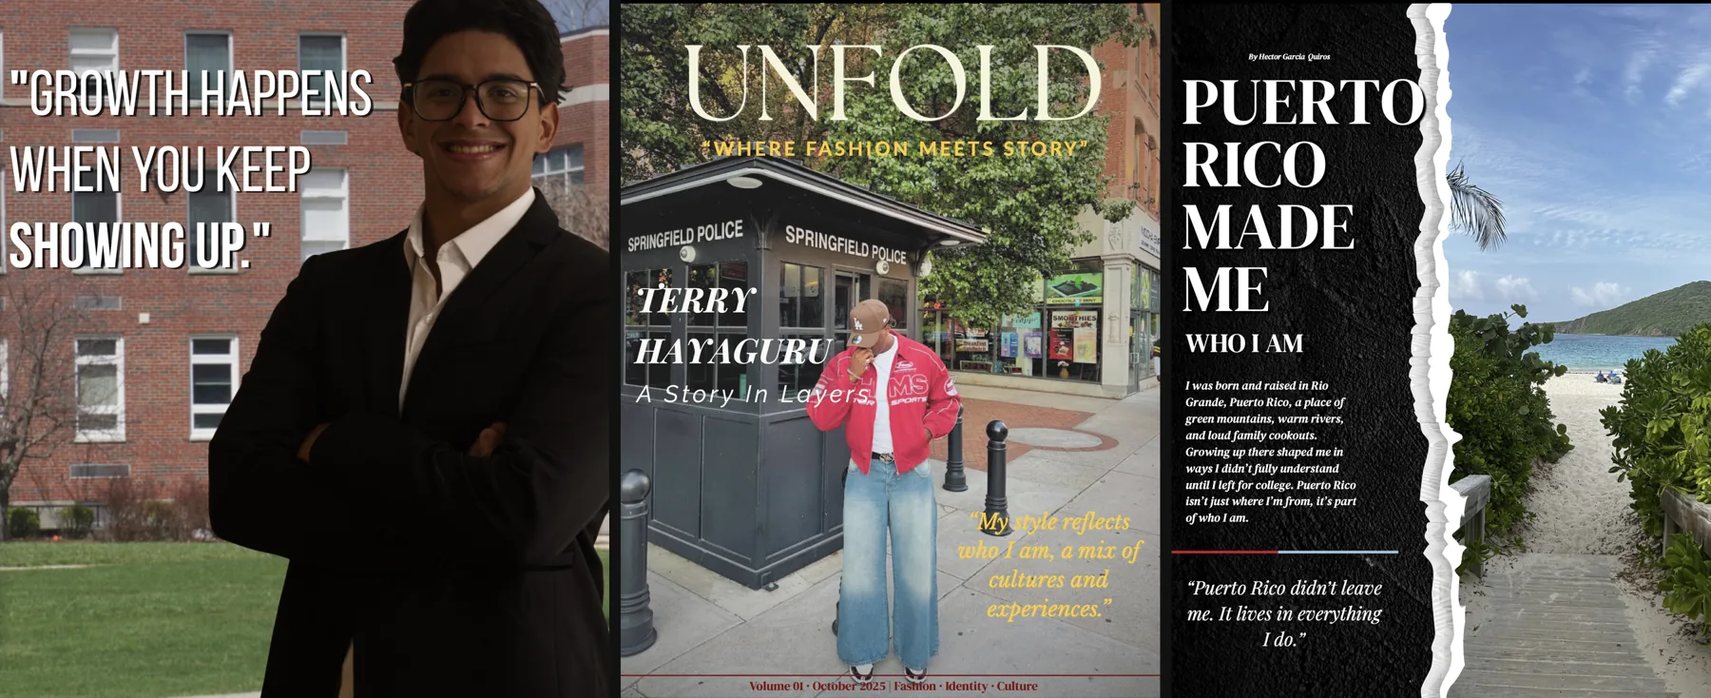
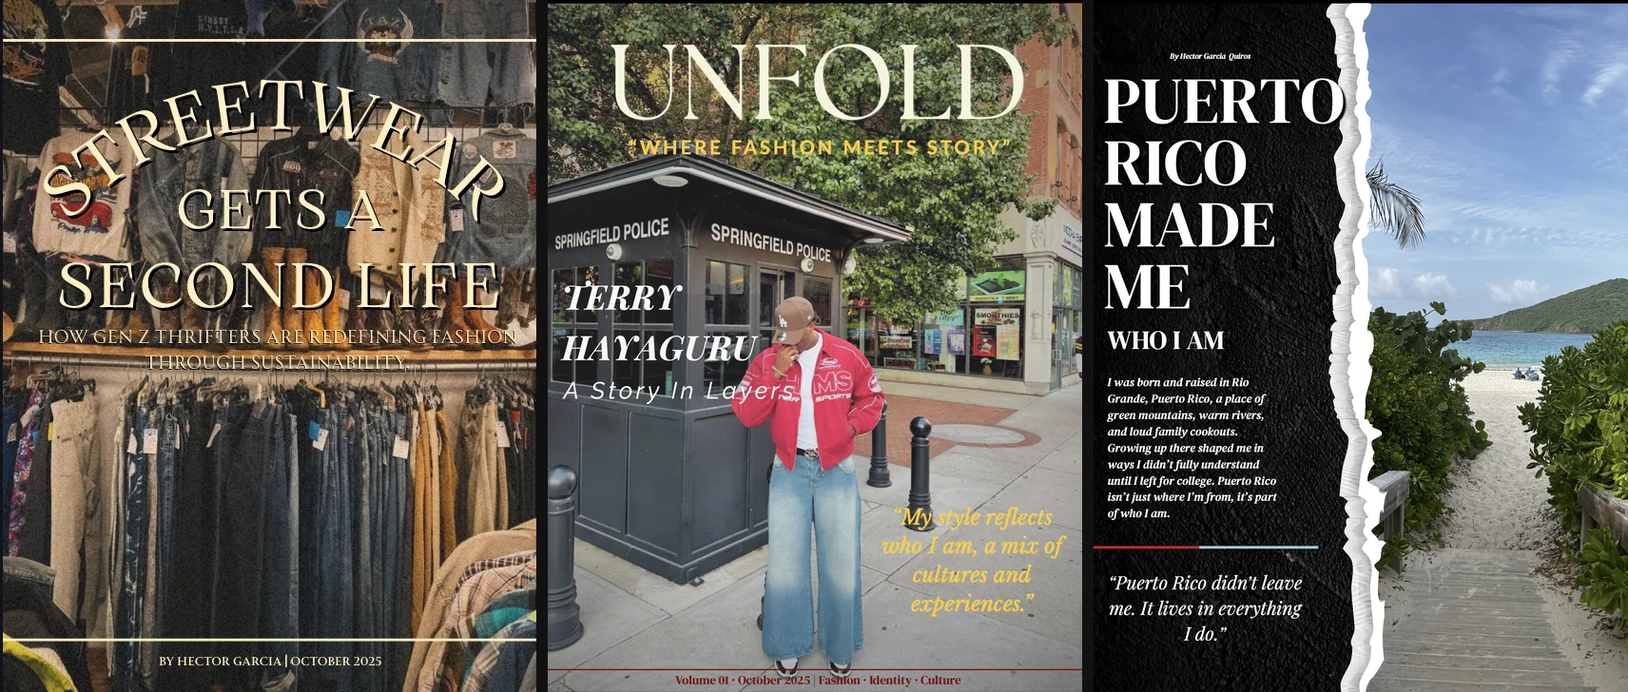
Swap the Senior Issue spread for the Streetwear Gets a Second Life cover

diff --git a/es/index.html b/es/index.html
@@ -25,7 +25,7 @@
 <link rel="apple-touch-icon" href="/apple-touch-icon.png">
 <link rel="preload" href="/fonts/anton-400.woff2" as="font" type="font/woff2" crossorigin>
 <link rel="preload" href="/fonts/instrument-sans-var.woff2" as="font" type="font/woff2" crossorigin>
-<link rel="stylesheet" href="/css/styles.css?v=4">
+<link rel="stylesheet" href="/css/styles.css?v=5">
 <script>
 /* Hide animated elements before first paint only when motion will run. */
 (function(){var r=document.documentElement;if(!matchMedia('(prefers-reduced-motion: reduce)').matches){r.classList.add('motion');setTimeout(function(){r.classList.add('motion-ready')},3000);}})();
@@ -94,11 +94,11 @@
   <span class="svc__num">03</span>
   <span class="svc__name">MARCA</span>
   <span class="svc__meta"><span class="svc__desc">Logotipos, colores, tipografía y las reglas que los mantienen unidos.</span><span class="svc__price">Desde $500 <svg class="arrow" width="16" height="16" viewBox="0 0 16 16" fill="none" aria-hidden="true"><path d="M2 8h11M9 4l4 4-4 4" stroke="currentColor" stroke-width="1.6"/></svg></span></span>
-  <span class="svc__thumb svc__thumb--strip" aria-hidden="true"><img src="/img/aic-covers-strip.webp" alt="" loading="lazy" decoding="async" width="1800" height="734"></span>
+  <span class="svc__thumb svc__thumb--strip" aria-hidden="true"><img src="/img/aic-covers-strip.webp" alt="" loading="lazy" decoding="async" width="1712" height="728"></span>
 </a></li></ul>
   </div>
   <div class="svc-preview" aria-hidden="true">
-  <img src="/img/sharplineconsulting-hero.webp" alt="" width="1200" height="750" loading="lazy"><img src="/img/cc-thumb-1.webp" alt="" width="960" height="540" loading="lazy"><img class="is-strip" src="/img/aic-covers-strip.webp" alt="" width="1800" height="734" loading="lazy">
+  <img src="/img/sharplineconsulting-hero.webp" alt="" width="1200" height="750" loading="lazy"><img src="/img/cc-thumb-1.webp" alt="" width="960" height="540" loading="lazy"><img class="is-strip" src="/img/aic-covers-strip.webp" alt="" width="1712" height="728" loading="lazy">
 </div>
 </section>
 <section class="section work on-ink" aria-labelledby="work-title" id="work">
@@ -146,13 +146,13 @@
   </div>
 </article><article class="case">
   <div class="case__media case__media--aic" data-unmask data-cursor="Leer">
-  <div class="aic-combo"><div class="fan fan--covers" role="img" aria-label="Portadas: Unfold, Puerto Rico Made Me y A Chapter That Changed Me"><div class="fan__item" style="--x:-58%;--y:8%;--r:-7deg;--hx:-72%;--hy:4%;--hr:-10deg;z-index:1"><img src="/img/senior-issue.webp" width="1000" height="647" alt="" loading="lazy" decoding="async"></div><div class="fan__item" style="--x:0%;--y:0%;--r:0deg;--hx:0%;--hy:-5%;--hr:0deg;z-index:2"><img src="/img/unfold.webp" width="1000" height="1294" alt="" loading="lazy" decoding="async"></div><div class="fan__item" style="--x:50%;--y:6%;--r:7deg;--hx:62%;--hy:2%;--hr:10deg;z-index:1"><img src="/img/puerto-rico.webp" width="1000" height="1294" alt="" loading="lazy" decoding="async"></div></div><div class="aic-combo__video"><div class="video-frame"><video data-autoplay muted loop playsinline preload="none" poster="/img/aic-poster.jpg" width="480" height="622" aria-label="Video: We Are AIC Project"><source src="/media/aic-loop.mp4" type="video/mp4"></video></div></div></div>
+  <div class="aic-combo"><div class="fan fan--covers" role="img" aria-label="Portadas: Streetwear Gets a Second Life, Unfold y Puerto Rico Made Me"><div class="fan__item" style="--x:-58%;--y:6%;--r:-7deg;--hx:-72%;--hy:2%;--hr:-10deg;z-index:1"><img src="/img/streetwear.webp" width="564" height="728" alt="" loading="lazy" decoding="async"></div><div class="fan__item" style="--x:0%;--y:0%;--r:0deg;--hx:0%;--hy:-5%;--hr:0deg;z-index:2"><img src="/img/unfold.webp" width="1000" height="1294" alt="" loading="lazy" decoding="async"></div><div class="fan__item" style="--x:50%;--y:6%;--r:7deg;--hx:62%;--hy:2%;--hr:10deg;z-index:1"><img src="/img/puerto-rico.webp" width="1000" height="1294" alt="" loading="lazy" decoding="async"></div></div><div class="aic-combo__video"><div class="video-frame"><video data-autoplay muted loop playsinline preload="none" poster="/img/aic-poster.jpg" width="480" height="622" aria-label="Video: We Are AIC Project"><source src="/media/aic-loop.mp4" type="video/mp4"></video></div></div></div>
   <button class="video-toggle" type="button" data-play="Reproducir" data-pause="Pausar"><span>Reproducir</span></button>
 </div>
   <div class="case__body">
     <div class="case__top"><span class="case__num">04</span><h3 class="case__title">HISTORIAS Y REPORTAJES PARA AIC</h3></div>
     <p class="case__type">American International College · Redacción, diseño y video</p>
-    <p class="case__desc">Historias publicadas en AIC Impact, reportajes de revista que escribí y diseñé (Unfold, Puerto Rico Made Me, A Chapter That Changed Me) y el video We Are AIC Project.</p>
+    <p class="case__desc">Historias publicadas en AIC Impact, reportajes de revista que escribí y diseñé (Streetwear Gets a Second Life, Unfold, Puerto Rico Made Me) y el video We Are AIC Project.</p>
     <div class="case__links"><a class="link-arrow" href="https://www.linkedin.com/pulse/aic-students-take-lead-boston-sports-marketing-summit-gjsre/" target="_blank" rel="noopener" title="AIC Students Take the Lead at Boston Sports Marketing Summit">Sports Marketing Summit<span class="visually-hidden">: AIC Students Take the Lead at Boston Sports Marketing Summit</span><svg class="arrow" width="14" height="14" viewBox="0 0 14 14" fill="none" aria-hidden="true"><path d="M4 10L10 4M5 4h5v5" stroke="currentColor" stroke-width="1.6"/></svg></a><a class="link-arrow" href="https://www.linkedin.com/pulse/owning-my-story-from-uncertainty-confidence-5pyke/" target="_blank" rel="noopener" title="Owning My Story: From Uncertainty to Confidence at AIC">Owning My Story<span class="visually-hidden">: Owning My Story: From Uncertainty to Confidence at AIC</span><svg class="arrow" width="14" height="14" viewBox="0 0 14 14" fill="none" aria-hidden="true"><path d="M4 10L10 4M5 4h5v5" stroke="currentColor" stroke-width="1.6"/></svg></a><a class="link-arrow" href="https://www.linkedin.com/pulse/american-international-college-recognized-2026-us-news-gc0se/" target="_blank" rel="noopener" title="American International College Recognized in 2026 U.S. News &amp; World Report Best Colleges Rankings for Social Mobility">Ranking de U.S. News<span class="visually-hidden">: American International College Recognized in 2026 U.S. News &amp; World Report Best Colleges Rankings for Social Mobility</span><svg class="arrow" width="14" height="14" viewBox="0 0 14 14" fill="none" aria-hidden="true"><path d="M4 10L10 4M5 4h5v5" stroke="currentColor" stroke-width="1.6"/></svg></a></div>
   </div>
 </article>
@@ -228,6 +228,6 @@
 <script src="/js/gsap.min.js" defer></script>
 <script src="/js/ScrollTrigger.min.js" defer></script>
 <script src="/js/lenis.min.js" defer></script>
-<script src="/js/main.js?v=4" defer></script>
+<script src="/js/main.js?v=5" defer></script>
 </body>
 </html>

diff --git a/index.html b/index.html
@@ -25,7 +25,7 @@
 <link rel="apple-touch-icon" href="/apple-touch-icon.png">
 <link rel="preload" href="/fonts/anton-400.woff2" as="font" type="font/woff2" crossorigin>
 <link rel="preload" href="/fonts/instrument-sans-var.woff2" as="font" type="font/woff2" crossorigin>
-<link rel="stylesheet" href="/css/styles.css?v=4">
+<link rel="stylesheet" href="/css/styles.css?v=5">
 <script>
 /* Hide animated elements before first paint only when motion will run. */
 (function(){var r=document.documentElement;if(!matchMedia('(prefers-reduced-motion: reduce)').matches){r.classList.add('motion');setTimeout(function(){r.classList.add('motion-ready')},3000);}})();
@@ -94,11 +94,11 @@
   <span class="svc__num">03</span>
   <span class="svc__name">BRAND</span>
   <span class="svc__meta"><span class="svc__desc">Wordmarks, colors, type and the rules that hold them together.</span><span class="svc__price">From $500 <svg class="arrow" width="16" height="16" viewBox="0 0 16 16" fill="none" aria-hidden="true"><path d="M2 8h11M9 4l4 4-4 4" stroke="currentColor" stroke-width="1.6"/></svg></span></span>
-  <span class="svc__thumb svc__thumb--strip" aria-hidden="true"><img src="/img/aic-covers-strip.webp" alt="" loading="lazy" decoding="async" width="1800" height="734"></span>
+  <span class="svc__thumb svc__thumb--strip" aria-hidden="true"><img src="/img/aic-covers-strip.webp" alt="" loading="lazy" decoding="async" width="1712" height="728"></span>
 </a></li></ul>
   </div>
   <div class="svc-preview" aria-hidden="true">
-  <img src="/img/sharplineconsulting-hero.webp" alt="" width="1200" height="750" loading="lazy"><img src="/img/cc-thumb-1.webp" alt="" width="960" height="540" loading="lazy"><img class="is-strip" src="/img/aic-covers-strip.webp" alt="" width="1800" height="734" loading="lazy">
+  <img src="/img/sharplineconsulting-hero.webp" alt="" width="1200" height="750" loading="lazy"><img src="/img/cc-thumb-1.webp" alt="" width="960" height="540" loading="lazy"><img class="is-strip" src="/img/aic-covers-strip.webp" alt="" width="1712" height="728" loading="lazy">
 </div>
 </section>
 <section class="section work on-ink" aria-labelledby="work-title" id="work">
@@ -146,13 +146,13 @@
   </div>
 </article><article class="case">
   <div class="case__media case__media--aic" data-unmask data-cursor="Read">
-  <div class="aic-combo"><div class="fan fan--covers" role="img" aria-label="Magazine covers: Unfold, Puerto Rico Made Me and A Chapter That Changed Me"><div class="fan__item" style="--x:-58%;--y:8%;--r:-7deg;--hx:-72%;--hy:4%;--hr:-10deg;z-index:1"><img src="/img/senior-issue.webp" width="1000" height="647" alt="" loading="lazy" decoding="async"></div><div class="fan__item" style="--x:0%;--y:0%;--r:0deg;--hx:0%;--hy:-5%;--hr:0deg;z-index:2"><img src="/img/unfold.webp" width="1000" height="1294" alt="" loading="lazy" decoding="async"></div><div class="fan__item" style="--x:50%;--y:6%;--r:7deg;--hx:62%;--hy:2%;--hr:10deg;z-index:1"><img src="/img/puerto-rico.webp" width="1000" height="1294" alt="" loading="lazy" decoding="async"></div></div><div class="aic-combo__video"><div class="video-frame"><video data-autoplay muted loop playsinline preload="none" poster="/img/aic-poster.jpg" width="480" height="622" aria-label="Video: We Are AIC Project"><source src="/media/aic-loop.mp4" type="video/mp4"></video></div></div></div>
+  <div class="aic-combo"><div class="fan fan--covers" role="img" aria-label="Magazine covers: Streetwear Gets a Second Life, Unfold and Puerto Rico Made Me"><div class="fan__item" style="--x:-58%;--y:6%;--r:-7deg;--hx:-72%;--hy:2%;--hr:-10deg;z-index:1"><img src="/img/streetwear.webp" width="564" height="728" alt="" loading="lazy" decoding="async"></div><div class="fan__item" style="--x:0%;--y:0%;--r:0deg;--hx:0%;--hy:-5%;--hr:0deg;z-index:2"><img src="/img/unfold.webp" width="1000" height="1294" alt="" loading="lazy" decoding="async"></div><div class="fan__item" style="--x:50%;--y:6%;--r:7deg;--hx:62%;--hy:2%;--hr:10deg;z-index:1"><img src="/img/puerto-rico.webp" width="1000" height="1294" alt="" loading="lazy" decoding="async"></div></div><div class="aic-combo__video"><div class="video-frame"><video data-autoplay muted loop playsinline preload="none" poster="/img/aic-poster.jpg" width="480" height="622" aria-label="Video: We Are AIC Project"><source src="/media/aic-loop.mp4" type="video/mp4"></video></div></div></div>
   <button class="video-toggle" type="button" data-play="Play" data-pause="Pause"><span>Play</span></button>
 </div>
   <div class="case__body">
     <div class="case__top"><span class="case__num">04</span><h3 class="case__title">AIC STORIES AND MAGAZINE FEATURES</h3></div>
     <p class="case__type">American International College · Writing, design and video</p>
-    <p class="case__desc">Stories published on AIC Impact, magazine features I wrote and designed (Unfold, Puerto Rico Made Me, A Chapter That Changed Me) and the We Are AIC Project video feature.</p>
+    <p class="case__desc">Stories published on AIC Impact, magazine features I wrote and designed (Streetwear Gets a Second Life, Unfold, Puerto Rico Made Me) and the We Are AIC Project video feature.</p>
     <div class="case__links"><a class="link-arrow" href="https://www.linkedin.com/pulse/aic-students-take-lead-boston-sports-marketing-summit-gjsre/" target="_blank" rel="noopener" title="AIC Students Take the Lead at Boston Sports Marketing Summit">Sports Marketing Summit<span class="visually-hidden">: AIC Students Take the Lead at Boston Sports Marketing Summit</span><svg class="arrow" width="14" height="14" viewBox="0 0 14 14" fill="none" aria-hidden="true"><path d="M4 10L10 4M5 4h5v5" stroke="currentColor" stroke-width="1.6"/></svg></a><a class="link-arrow" href="https://www.linkedin.com/pulse/owning-my-story-from-uncertainty-confidence-5pyke/" target="_blank" rel="noopener" title="Owning My Story: From Uncertainty to Confidence at AIC">Owning My Story<span class="visually-hidden">: Owning My Story: From Uncertainty to Confidence at AIC</span><svg class="arrow" width="14" height="14" viewBox="0 0 14 14" fill="none" aria-hidden="true"><path d="M4 10L10 4M5 4h5v5" stroke="currentColor" stroke-width="1.6"/></svg></a><a class="link-arrow" href="https://www.linkedin.com/pulse/american-international-college-recognized-2026-us-news-gc0se/" target="_blank" rel="noopener" title="American International College Recognized in 2026 U.S. News &amp; World Report Best Colleges Rankings for Social Mobility">U.S. News ranking<span class="visually-hidden">: American International College Recognized in 2026 U.S. News &amp; World Report Best Colleges Rankings for Social Mobility</span><svg class="arrow" width="14" height="14" viewBox="0 0 14 14" fill="none" aria-hidden="true"><path d="M4 10L10 4M5 4h5v5" stroke="currentColor" stroke-width="1.6"/></svg></a></div>
   </div>
 </article>
@@ -228,6 +228,6 @@
 <script src="/js/gsap.min.js" defer></script>
 <script src="/js/ScrollTrigger.min.js" defer></script>
 <script src="/js/lenis.min.js" defer></script>
-<script src="/js/main.js?v=4" defer></script>
+<script src="/js/main.js?v=5" defer></script>
 </body>
 </html>

diff --git a/es/marca/index.html b/es/marca/index.html
@@ -25,7 +25,7 @@
 <link rel="apple-touch-icon" href="/apple-touch-icon.png">
 <link rel="preload" href="/fonts/anton-400.woff2" as="font" type="font/woff2" crossorigin>
 <link rel="preload" href="/fonts/instrument-sans-var.woff2" as="font" type="font/woff2" crossorigin>
-<link rel="stylesheet" href="/css/styles.css?v=4">
+<link rel="stylesheet" href="/css/styles.css?v=5">
 <script>
 /* Hide animated elements before first paint only when motion will run. */
 (function(){var r=document.documentElement;if(!matchMedia('(prefers-reduced-motion: reduce)').matches){r.classList.add('motion');setTimeout(function(){r.classList.add('motion-ready')},3000);}})();
@@ -94,13 +94,13 @@
     <div class="section-head"><p class="eyebrow" data-reveal>Trabajo de diseño</p><h2 class="h-section" id="bw-title" data-split>TIPOGRAFÍA, DISEÑO Y UN PUNTO DE VISTA.</h2><p class="lede" data-reveal>Reportajes de revista que escribí y diseñé en AIC, y el sistema de marca de este mismo sitio, hecho como haría el tuyo.</p></div>
     <div class="cases-grid cases-grid--one"><article class="case">
   <div class="case__media case__media--aic" data-unmask data-cursor="Leer">
-  <div class="aic-combo"><div class="fan fan--covers" role="img" aria-label="Portadas: Unfold, Puerto Rico Made Me y A Chapter That Changed Me"><div class="fan__item" style="--x:-58%;--y:8%;--r:-7deg;--hx:-72%;--hy:4%;--hr:-10deg;z-index:1"><img src="/img/senior-issue.webp" width="1000" height="647" alt="" loading="lazy" decoding="async"></div><div class="fan__item" style="--x:0%;--y:0%;--r:0deg;--hx:0%;--hy:-5%;--hr:0deg;z-index:2"><img src="/img/unfold.webp" width="1000" height="1294" alt="" loading="lazy" decoding="async"></div><div class="fan__item" style="--x:50%;--y:6%;--r:7deg;--hx:62%;--hy:2%;--hr:10deg;z-index:1"><img src="/img/puerto-rico.webp" width="1000" height="1294" alt="" loading="lazy" decoding="async"></div></div><div class="aic-combo__video"><div class="video-frame"><video data-autoplay muted loop playsinline preload="none" poster="/img/aic-poster.jpg" width="480" height="622" aria-label="Video: We Are AIC Project"><source src="/media/aic-loop.mp4" type="video/mp4"></video></div></div></div>
+  <div class="aic-combo"><div class="fan fan--covers" role="img" aria-label="Portadas: Streetwear Gets a Second Life, Unfold y Puerto Rico Made Me"><div class="fan__item" style="--x:-58%;--y:6%;--r:-7deg;--hx:-72%;--hy:2%;--hr:-10deg;z-index:1"><img src="/img/streetwear.webp" width="564" height="728" alt="" loading="lazy" decoding="async"></div><div class="fan__item" style="--x:0%;--y:0%;--r:0deg;--hx:0%;--hy:-5%;--hr:0deg;z-index:2"><img src="/img/unfold.webp" width="1000" height="1294" alt="" loading="lazy" decoding="async"></div><div class="fan__item" style="--x:50%;--y:6%;--r:7deg;--hx:62%;--hy:2%;--hr:10deg;z-index:1"><img src="/img/puerto-rico.webp" width="1000" height="1294" alt="" loading="lazy" decoding="async"></div></div><div class="aic-combo__video"><div class="video-frame"><video data-autoplay muted loop playsinline preload="none" poster="/img/aic-poster.jpg" width="480" height="622" aria-label="Video: We Are AIC Project"><source src="/media/aic-loop.mp4" type="video/mp4"></video></div></div></div>
   <button class="video-toggle" type="button" data-play="Reproducir" data-pause="Pausar"><span>Reproducir</span></button>
 </div>
   <div class="case__body">
     <div class="case__top"><span class="case__num">01</span><h3 class="case__title">HISTORIAS Y REPORTAJES PARA AIC</h3></div>
     <p class="case__type">American International College · Redacción, diseño y video</p>
-    <p class="case__desc">Historias publicadas en AIC Impact, reportajes de revista que escribí y diseñé (Unfold, Puerto Rico Made Me, A Chapter That Changed Me) y el video We Are AIC Project.</p>
+    <p class="case__desc">Historias publicadas en AIC Impact, reportajes de revista que escribí y diseñé (Streetwear Gets a Second Life, Unfold, Puerto Rico Made Me) y el video We Are AIC Project.</p>
     <div class="case__links"><a class="link-arrow" href="https://www.linkedin.com/pulse/aic-students-take-lead-boston-sports-marketing-summit-gjsre/" target="_blank" rel="noopener" title="AIC Students Take the Lead at Boston Sports Marketing Summit">Sports Marketing Summit<span class="visually-hidden">: AIC Students Take the Lead at Boston Sports Marketing Summit</span><svg class="arrow" width="14" height="14" viewBox="0 0 14 14" fill="none" aria-hidden="true"><path d="M4 10L10 4M5 4h5v5" stroke="currentColor" stroke-width="1.6"/></svg></a><a class="link-arrow" href="https://www.linkedin.com/pulse/owning-my-story-from-uncertainty-confidence-5pyke/" target="_blank" rel="noopener" title="Owning My Story: From Uncertainty to Confidence at AIC">Owning My Story<span class="visually-hidden">: Owning My Story: From Uncertainty to Confidence at AIC</span><svg class="arrow" width="14" height="14" viewBox="0 0 14 14" fill="none" aria-hidden="true"><path d="M4 10L10 4M5 4h5v5" stroke="currentColor" stroke-width="1.6"/></svg></a><a class="link-arrow" href="https://www.linkedin.com/pulse/american-international-college-recognized-2026-us-news-gc0se/" target="_blank" rel="noopener" title="American International College Recognized in 2026 U.S. News &amp; World Report Best Colleges Rankings for Social Mobility">Ranking de U.S. News<span class="visually-hidden">: American International College Recognized in 2026 U.S. News &amp; World Report Best Colleges Rankings for Social Mobility</span><svg class="arrow" width="14" height="14" viewBox="0 0 14 14" fill="none" aria-hidden="true"><path d="M4 10L10 4M5 4h5v5" stroke="currentColor" stroke-width="1.6"/></svg></a></div>
   </div>
 </article></div>
@@ -138,6 +138,6 @@
 <script src="/js/gsap.min.js" defer></script>
 <script src="/js/ScrollTrigger.min.js" defer></script>
 <script src="/js/lenis.min.js" defer></script>
-<script src="/js/main.js?v=4" defer></script>
+<script src="/js/main.js?v=5" defer></script>
 </body>
 </html>

diff --git a/brand/index.html b/brand/index.html
@@ -25,7 +25,7 @@
 <link rel="apple-touch-icon" href="/apple-touch-icon.png">
 <link rel="preload" href="/fonts/anton-400.woff2" as="font" type="font/woff2" crossorigin>
 <link rel="preload" href="/fonts/instrument-sans-var.woff2" as="font" type="font/woff2" crossorigin>
-<link rel="stylesheet" href="/css/styles.css?v=4">
+<link rel="stylesheet" href="/css/styles.css?v=5">
 <script>
 /* Hide animated elements before first paint only when motion will run. */
 (function(){var r=document.documentElement;if(!matchMedia('(prefers-reduced-motion: reduce)').matches){r.classList.add('motion');setTimeout(function(){r.classList.add('motion-ready')},3000);}})();
@@ -94,13 +94,13 @@
     <div class="section-head"><p class="eyebrow" data-reveal>Design work</p><h2 class="h-section" id="bw-title" data-split>TYPE, LAYOUT AND A POINT OF VIEW.</h2><p class="lede" data-reveal>Magazine features I wrote and designed at AIC, and this site&#x27;s own brand system, built the same way I&#x27;d build yours.</p></div>
     <div class="cases-grid cases-grid--one"><article class="case">
   <div class="case__media case__media--aic" data-unmask data-cursor="Read">
-  <div class="aic-combo"><div class="fan fan--covers" role="img" aria-label="Magazine covers: Unfold, Puerto Rico Made Me and A Chapter That Changed Me"><div class="fan__item" style="--x:-58%;--y:8%;--r:-7deg;--hx:-72%;--hy:4%;--hr:-10deg;z-index:1"><img src="/img/senior-issue.webp" width="1000" height="647" alt="" loading="lazy" decoding="async"></div><div class="fan__item" style="--x:0%;--y:0%;--r:0deg;--hx:0%;--hy:-5%;--hr:0deg;z-index:2"><img src="/img/unfold.webp" width="1000" height="1294" alt="" loading="lazy" decoding="async"></div><div class="fan__item" style="--x:50%;--y:6%;--r:7deg;--hx:62%;--hy:2%;--hr:10deg;z-index:1"><img src="/img/puerto-rico.webp" width="1000" height="1294" alt="" loading="lazy" decoding="async"></div></div><div class="aic-combo__video"><div class="video-frame"><video data-autoplay muted loop playsinline preload="none" poster="/img/aic-poster.jpg" width="480" height="622" aria-label="Video: We Are AIC Project"><source src="/media/aic-loop.mp4" type="video/mp4"></video></div></div></div>
+  <div class="aic-combo"><div class="fan fan--covers" role="img" aria-label="Magazine covers: Streetwear Gets a Second Life, Unfold and Puerto Rico Made Me"><div class="fan__item" style="--x:-58%;--y:6%;--r:-7deg;--hx:-72%;--hy:2%;--hr:-10deg;z-index:1"><img src="/img/streetwear.webp" width="564" height="728" alt="" loading="lazy" decoding="async"></div><div class="fan__item" style="--x:0%;--y:0%;--r:0deg;--hx:0%;--hy:-5%;--hr:0deg;z-index:2"><img src="/img/unfold.webp" width="1000" height="1294" alt="" loading="lazy" decoding="async"></div><div class="fan__item" style="--x:50%;--y:6%;--r:7deg;--hx:62%;--hy:2%;--hr:10deg;z-index:1"><img src="/img/puerto-rico.webp" width="1000" height="1294" alt="" loading="lazy" decoding="async"></div></div><div class="aic-combo__video"><div class="video-frame"><video data-autoplay muted loop playsinline preload="none" poster="/img/aic-poster.jpg" width="480" height="622" aria-label="Video: We Are AIC Project"><source src="/media/aic-loop.mp4" type="video/mp4"></video></div></div></div>
   <button class="video-toggle" type="button" data-play="Play" data-pause="Pause"><span>Play</span></button>
 </div>
   <div class="case__body">
     <div class="case__top"><span class="case__num">01</span><h3 class="case__title">AIC STORIES AND MAGAZINE FEATURES</h3></div>
     <p class="case__type">American International College · Writing, design and video</p>
-    <p class="case__desc">Stories published on AIC Impact, magazine features I wrote and designed (Unfold, Puerto Rico Made Me, A Chapter That Changed Me) and the We Are AIC Project video feature.</p>
+    <p class="case__desc">Stories published on AIC Impact, magazine features I wrote and designed (Streetwear Gets a Second Life, Unfold, Puerto Rico Made Me) and the We Are AIC Project video feature.</p>
     <div class="case__links"><a class="link-arrow" href="https://www.linkedin.com/pulse/aic-students-take-lead-boston-sports-marketing-summit-gjsre/" target="_blank" rel="noopener" title="AIC Students Take the Lead at Boston Sports Marketing Summit">Sports Marketing Summit<span class="visually-hidden">: AIC Students Take the Lead at Boston Sports Marketing Summit</span><svg class="arrow" width="14" height="14" viewBox="0 0 14 14" fill="none" aria-hidden="true"><path d="M4 10L10 4M5 4h5v5" stroke="currentColor" stroke-width="1.6"/></svg></a><a class="link-arrow" href="https://www.linkedin.com/pulse/owning-my-story-from-uncertainty-confidence-5pyke/" target="_blank" rel="noopener" title="Owning My Story: From Uncertainty to Confidence at AIC">Owning My Story<span class="visually-hidden">: Owning My Story: From Uncertainty to Confidence at AIC</span><svg class="arrow" width="14" height="14" viewBox="0 0 14 14" fill="none" aria-hidden="true"><path d="M4 10L10 4M5 4h5v5" stroke="currentColor" stroke-width="1.6"/></svg></a><a class="link-arrow" href="https://www.linkedin.com/pulse/american-international-college-recognized-2026-us-news-gc0se/" target="_blank" rel="noopener" title="American International College Recognized in 2026 U.S. News &amp; World Report Best Colleges Rankings for Social Mobility">U.S. News ranking<span class="visually-hidden">: American International College Recognized in 2026 U.S. News &amp; World Report Best Colleges Rankings for Social Mobility</span><svg class="arrow" width="14" height="14" viewBox="0 0 14 14" fill="none" aria-hidden="true"><path d="M4 10L10 4M5 4h5v5" stroke="currentColor" stroke-width="1.6"/></svg></a></div>
   </div>
 </article></div>
@@ -138,6 +138,6 @@
 <script src="/js/gsap.min.js" defer></script>
 <script src="/js/ScrollTrigger.min.js" defer></script>
 <script src="/js/lenis.min.js" defer></script>
-<script src="/js/main.js?v=4" defer></script>
+<script src="/js/main.js?v=5" defer></script>
 </body>
 </html>

diff --git a/content/index.html b/content/index.html
@@ -25,7 +25,7 @@
 <link rel="apple-touch-icon" href="/apple-touch-icon.png">
 <link rel="preload" href="/fonts/anton-400.woff2" as="font" type="font/woff2" crossorigin>
 <link rel="preload" href="/fonts/instrument-sans-var.woff2" as="font" type="font/woff2" crossorigin>
-<link rel="stylesheet" href="/css/styles.css?v=4">
+<link rel="stylesheet" href="/css/styles.css?v=5">
 <script>
 /* Hide animated elements before first paint only when motion will run. */
 (function(){var r=document.documentElement;if(!matchMedia('(prefers-reduced-motion: reduce)').matches){r.classList.add('motion');setTimeout(function(){r.classList.add('motion-ready')},3000);}})();
@@ -103,13 +103,13 @@
   </div>
 </article><article class="case">
   <div class="case__media case__media--aic" data-unmask data-cursor="Read">
-  <div class="aic-combo"><div class="fan fan--covers" role="img" aria-label="Magazine covers: Unfold, Puerto Rico Made Me and A Chapter That Changed Me"><div class="fan__item" style="--x:-58%;--y:8%;--r:-7deg;--hx:-72%;--hy:4%;--hr:-10deg;z-index:1"><img src="/img/senior-issue.webp" width="1000" height="647" alt="" loading="lazy" decoding="async"></div><div class="fan__item" style="--x:0%;--y:0%;--r:0deg;--hx:0%;--hy:-5%;--hr:0deg;z-index:2"><img src="/img/unfold.webp" width="1000" height="1294" alt="" loading="lazy" decoding="async"></div><div class="fan__item" style="--x:50%;--y:6%;--r:7deg;--hx:62%;--hy:2%;--hr:10deg;z-index:1"><img src="/img/puerto-rico.webp" width="1000" height="1294" alt="" loading="lazy" decoding="async"></div></div><div class="aic-combo__video"><div class="video-frame"><video data-autoplay muted loop playsinline preload="none" poster="/img/aic-poster.jpg" width="480" height="622" aria-label="Video: We Are AIC Project"><source src="/media/aic-loop.mp4" type="video/mp4"></video></div></div></div>
+  <div class="aic-combo"><div class="fan fan--covers" role="img" aria-label="Magazine covers: Streetwear Gets a Second Life, Unfold and Puerto Rico Made Me"><div class="fan__item" style="--x:-58%;--y:6%;--r:-7deg;--hx:-72%;--hy:2%;--hr:-10deg;z-index:1"><img src="/img/streetwear.webp" width="564" height="728" alt="" loading="lazy" decoding="async"></div><div class="fan__item" style="--x:0%;--y:0%;--r:0deg;--hx:0%;--hy:-5%;--hr:0deg;z-index:2"><img src="/img/unfold.webp" width="1000" height="1294" alt="" loading="lazy" decoding="async"></div><div class="fan__item" style="--x:50%;--y:6%;--r:7deg;--hx:62%;--hy:2%;--hr:10deg;z-index:1"><img src="/img/puerto-rico.webp" width="1000" height="1294" alt="" loading="lazy" decoding="async"></div></div><div class="aic-combo__video"><div class="video-frame"><video data-autoplay muted loop playsinline preload="none" poster="/img/aic-poster.jpg" width="480" height="622" aria-label="Video: We Are AIC Project"><source src="/media/aic-loop.mp4" type="video/mp4"></video></div></div></div>
   <button class="video-toggle" type="button" data-play="Play" data-pause="Pause"><span>Play</span></button>
 </div>
   <div class="case__body">
     <div class="case__top"><span class="case__num">02</span><h3 class="case__title">AIC STORIES AND MAGAZINE FEATURES</h3></div>
     <p class="case__type">American International College · Writing, design and video</p>
-    <p class="case__desc">Stories published on AIC Impact, magazine features I wrote and designed (Unfold, Puerto Rico Made Me, A Chapter That Changed Me) and the We Are AIC Project video feature.</p>
+    <p class="case__desc">Stories published on AIC Impact, magazine features I wrote and designed (Streetwear Gets a Second Life, Unfold, Puerto Rico Made Me) and the We Are AIC Project video feature.</p>
     <div class="case__links"><a class="link-arrow" href="https://www.linkedin.com/pulse/aic-students-take-lead-boston-sports-marketing-summit-gjsre/" target="_blank" rel="noopener" title="AIC Students Take the Lead at Boston Sports Marketing Summit">Sports Marketing Summit<span class="visually-hidden">: AIC Students Take the Lead at Boston Sports Marketing Summit</span><svg class="arrow" width="14" height="14" viewBox="0 0 14 14" fill="none" aria-hidden="true"><path d="M4 10L10 4M5 4h5v5" stroke="currentColor" stroke-width="1.6"/></svg></a><a class="link-arrow" href="https://www.linkedin.com/pulse/owning-my-story-from-uncertainty-confidence-5pyke/" target="_blank" rel="noopener" title="Owning My Story: From Uncertainty to Confidence at AIC">Owning My Story<span class="visually-hidden">: Owning My Story: From Uncertainty to Confidence at AIC</span><svg class="arrow" width="14" height="14" viewBox="0 0 14 14" fill="none" aria-hidden="true"><path d="M4 10L10 4M5 4h5v5" stroke="currentColor" stroke-width="1.6"/></svg></a><a class="link-arrow" href="https://www.linkedin.com/pulse/american-international-college-recognized-2026-us-news-gc0se/" target="_blank" rel="noopener" title="American International College Recognized in 2026 U.S. News &amp; World Report Best Colleges Rankings for Social Mobility">U.S. News ranking<span class="visually-hidden">: American International College Recognized in 2026 U.S. News &amp; World Report Best Colleges Rankings for Social Mobility</span><svg class="arrow" width="14" height="14" viewBox="0 0 14 14" fill="none" aria-hidden="true"><path d="M4 10L10 4M5 4h5v5" stroke="currentColor" stroke-width="1.6"/></svg></a></div>
   </div>
 </article></div>
@@ -162,6 +162,6 @@
 <script src="/js/gsap.min.js" defer></script>
 <script src="/js/ScrollTrigger.min.js" defer></script>
 <script src="/js/lenis.min.js" defer></script>
-<script src="/js/main.js?v=4" defer></script>
+<script src="/js/main.js?v=5" defer></script>
 </body>
 </html>

diff --git a/es/contenido/index.html b/es/contenido/index.html
@@ -25,7 +25,7 @@
 <link rel="apple-touch-icon" href="/apple-touch-icon.png">
 <link rel="preload" href="/fonts/anton-400.woff2" as="font" type="font/woff2" crossorigin>
 <link rel="preload" href="/fonts/instrument-sans-var.woff2" as="font" type="font/woff2" crossorigin>
-<link rel="stylesheet" href="/css/styles.css?v=4">
+<link rel="stylesheet" href="/css/styles.css?v=5">
 <script>
 /* Hide animated elements before first paint only when motion will run. */
 (function(){var r=document.documentElement;if(!matchMedia('(prefers-reduced-motion: reduce)').matches){r.classList.add('motion');setTimeout(function(){r.classList.add('motion-ready')},3000);}})();
@@ -103,13 +103,13 @@
   </div>
 </article><article class="case">
   <div class="case__media case__media--aic" data-unmask data-cursor="Leer">
-  <div class="aic-combo"><div class="fan fan--covers" role="img" aria-label="Portadas: Unfold, Puerto Rico Made Me y A Chapter That Changed Me"><div class="fan__item" style="--x:-58%;--y:8%;--r:-7deg;--hx:-72%;--hy:4%;--hr:-10deg;z-index:1"><img src="/img/senior-issue.webp" width="1000" height="647" alt="" loading="lazy" decoding="async"></div><div class="fan__item" style="--x:0%;--y:0%;--r:0deg;--hx:0%;--hy:-5%;--hr:0deg;z-index:2"><img src="/img/unfold.webp" width="1000" height="1294" alt="" loading="lazy" decoding="async"></div><div class="fan__item" style="--x:50%;--y:6%;--r:7deg;--hx:62%;--hy:2%;--hr:10deg;z-index:1"><img src="/img/puerto-rico.webp" width="1000" height="1294" alt="" loading="lazy" decoding="async"></div></div><div class="aic-combo__video"><div class="video-frame"><video data-autoplay muted loop playsinline preload="none" poster="/img/aic-poster.jpg" width="480" height="622" aria-label="Video: We Are AIC Project"><source src="/media/aic-loop.mp4" type="video/mp4"></video></div></div></div>
+  <div class="aic-combo"><div class="fan fan--covers" role="img" aria-label="Portadas: Streetwear Gets a Second Life, Unfold y Puerto Rico Made Me"><div class="fan__item" style="--x:-58%;--y:6%;--r:-7deg;--hx:-72%;--hy:2%;--hr:-10deg;z-index:1"><img src="/img/streetwear.webp" width="564" height="728" alt="" loading="lazy" decoding="async"></div><div class="fan__item" style="--x:0%;--y:0%;--r:0deg;--hx:0%;--hy:-5%;--hr:0deg;z-index:2"><img src="/img/unfold.webp" width="1000" height="1294" alt="" loading="lazy" decoding="async"></div><div class="fan__item" style="--x:50%;--y:6%;--r:7deg;--hx:62%;--hy:2%;--hr:10deg;z-index:1"><img src="/img/puerto-rico.webp" width="1000" height="1294" alt="" loading="lazy" decoding="async"></div></div><div class="aic-combo__video"><div class="video-frame"><video data-autoplay muted loop playsinline preload="none" poster="/img/aic-poster.jpg" width="480" height="622" aria-label="Video: We Are AIC Project"><source src="/media/aic-loop.mp4" type="video/mp4"></video></div></div></div>
   <button class="video-toggle" type="button" data-play="Reproducir" data-pause="Pausar"><span>Reproducir</span></button>
 </div>
   <div class="case__body">
     <div class="case__top"><span class="case__num">02</span><h3 class="case__title">HISTORIAS Y REPORTAJES PARA AIC</h3></div>
     <p class="case__type">American International College · Redacción, diseño y video</p>
-    <p class="case__desc">Historias publicadas en AIC Impact, reportajes de revista que escribí y diseñé (Unfold, Puerto Rico Made Me, A Chapter That Changed Me) y el video We Are AIC Project.</p>
+    <p class="case__desc">Historias publicadas en AIC Impact, reportajes de revista que escribí y diseñé (Streetwear Gets a Second Life, Unfold, Puerto Rico Made Me) y el video We Are AIC Project.</p>
     <div class="case__links"><a class="link-arrow" href="https://www.linkedin.com/pulse/aic-students-take-lead-boston-sports-marketing-summit-gjsre/" target="_blank" rel="noopener" title="AIC Students Take the Lead at Boston Sports Marketing Summit">Sports Marketing Summit<span class="visually-hidden">: AIC Students Take the Lead at Boston Sports Marketing Summit</span><svg class="arrow" width="14" height="14" viewBox="0 0 14 14" fill="none" aria-hidden="true"><path d="M4 10L10 4M5 4h5v5" stroke="currentColor" stroke-width="1.6"/></svg></a><a class="link-arrow" href="https://www.linkedin.com/pulse/owning-my-story-from-uncertainty-confidence-5pyke/" target="_blank" rel="noopener" title="Owning My Story: From Uncertainty to Confidence at AIC">Owning My Story<span class="visually-hidden">: Owning My Story: From Uncertainty to Confidence at AIC</span><svg class="arrow" width="14" height="14" viewBox="0 0 14 14" fill="none" aria-hidden="true"><path d="M4 10L10 4M5 4h5v5" stroke="currentColor" stroke-width="1.6"/></svg></a><a class="link-arrow" href="https://www.linkedin.com/pulse/american-international-college-recognized-2026-us-news-gc0se/" target="_blank" rel="noopener" title="American International College Recognized in 2026 U.S. News &amp; World Report Best Colleges Rankings for Social Mobility">Ranking de U.S. News<span class="visually-hidden">: American International College Recognized in 2026 U.S. News &amp; World Report Best Colleges Rankings for Social Mobility</span><svg class="arrow" width="14" height="14" viewBox="0 0 14 14" fill="none" aria-hidden="true"><path d="M4 10L10 4M5 4h5v5" stroke="currentColor" stroke-width="1.6"/></svg></a></div>
   </div>
 </article></div>
@@ -162,6 +162,6 @@
 <script src="/js/gsap.min.js" defer></script>
 <script src="/js/ScrollTrigger.min.js" defer></script>
 <script src="/js/lenis.min.js" defer></script>
-<script src="/js/main.js?v=4" defer></script>
+<script src="/js/main.js?v=5" defer></script>
 </body>
 </html>

diff --git a/es/sitios-web/index.html b/es/sitios-web/index.html
@@ -25,7 +25,7 @@
 <link rel="apple-touch-icon" href="/apple-touch-icon.png">
 <link rel="preload" href="/fonts/anton-400.woff2" as="font" type="font/woff2" crossorigin>
 <link rel="preload" href="/fonts/instrument-sans-var.woff2" as="font" type="font/woff2" crossorigin>
-<link rel="stylesheet" href="/css/styles.css?v=4">
+<link rel="stylesheet" href="/css/styles.css?v=5">
 <script>
 /* Hide animated elements before first paint only when motion will run. */
 (function(){var r=document.documentElement;if(!matchMedia('(prefers-reduced-motion: reduce)').matches){r.classList.add('motion');setTimeout(function(){r.classList.add('motion-ready')},3000);}})();
@@ -176,6 +176,6 @@
 <script src="/js/gsap.min.js" defer></script>
 <script src="/js/ScrollTrigger.min.js" defer></script>
 <script src="/js/lenis.min.js" defer></script>
-<script src="/js/main.js?v=4" defer></script>
+<script src="/js/main.js?v=5" defer></script>
 </body>
 </html>

diff --git a/websites/index.html b/websites/index.html
@@ -25,7 +25,7 @@
 <link rel="apple-touch-icon" href="/apple-touch-icon.png">
 <link rel="preload" href="/fonts/anton-400.woff2" as="font" type="font/woff2" crossorigin>
 <link rel="preload" href="/fonts/instrument-sans-var.woff2" as="font" type="font/woff2" crossorigin>
-<link rel="stylesheet" href="/css/styles.css?v=4">
+<link rel="stylesheet" href="/css/styles.css?v=5">
 <script>
 /* Hide animated elements before first paint only when motion will run. */
 (function(){var r=document.documentElement;if(!matchMedia('(prefers-reduced-motion: reduce)').matches){r.classList.add('motion');setTimeout(function(){r.classList.add('motion-ready')},3000);}})();
@@ -176,6 +176,6 @@
 <script src="/js/gsap.min.js" defer></script>
 <script src="/js/ScrollTrigger.min.js" defer></script>
 <script src="/js/lenis.min.js" defer></script>
-<script src="/js/main.js?v=4" defer></script>
+<script src="/js/main.js?v=5" defer></script>
 </body>
 </html>

diff --git a/404.html b/404.html
@@ -22,7 +22,7 @@
 <link rel="apple-touch-icon" href="/apple-touch-icon.png">
 <link rel="preload" href="/fonts/anton-400.woff2" as="font" type="font/woff2" crossorigin>
 <link rel="preload" href="/fonts/instrument-sans-var.woff2" as="font" type="font/woff2" crossorigin>
-<link rel="stylesheet" href="/css/styles.css?v=4">
+<link rel="stylesheet" href="/css/styles.css?v=5">
 <script>
 /* Hide animated elements before first paint only when motion will run. */
 (function(){var r=document.documentElement;if(!matchMedia('(prefers-reduced-motion: reduce)').matches){r.classList.add('motion');setTimeout(function(){r.classList.add('motion-ready')},3000);}})();
@@ -72,6 +72,6 @@
 <script src="/js/gsap.min.js" defer></script>
 <script src="/js/ScrollTrigger.min.js" defer></script>
 <script src="/js/lenis.min.js" defer></script>
-<script src="/js/main.js?v=4" defer></script>
+<script src="/js/main.js?v=5" defer></script>
 </body>
 </html>

diff --git a/css/styles.css b/css/styles.css
@@ -255,7 +255,7 @@ button { font: inherit; color: inherit; background: none; border: 0; padding: 0;
 .svc__price .arrow { transition: transform var(--d-base) var(--ease-out); }
 .svc__thumb { grid-column: 2; margin-top: var(--s-3); border-radius: var(--radius-card); overflow: hidden; aspect-ratio: 16 / 10; background: var(--paper-2); }
 .svc__thumb img { width: 100%; height: 100%; object-fit: cover; object-position: top; }
-.svc__thumb--strip { aspect-ratio: 1800 / 734; background: var(--ink); }
+.svc__thumb--strip { aspect-ratio: 1712 / 728; background: var(--ink); }
 .svc__thumb--strip img { object-fit: contain; }
 .svc::before { content: ""; position: absolute; inset: 0; background: var(--ink); transform: scaleY(0); transform-origin: bottom; transition: transform var(--d-slow) var(--ease-out); z-index: 0; }
 @media (hover: hover) and (min-width: 60rem) {
